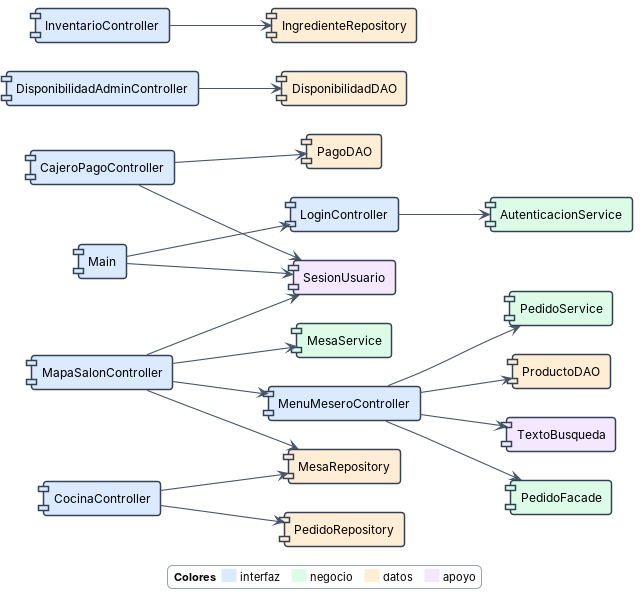
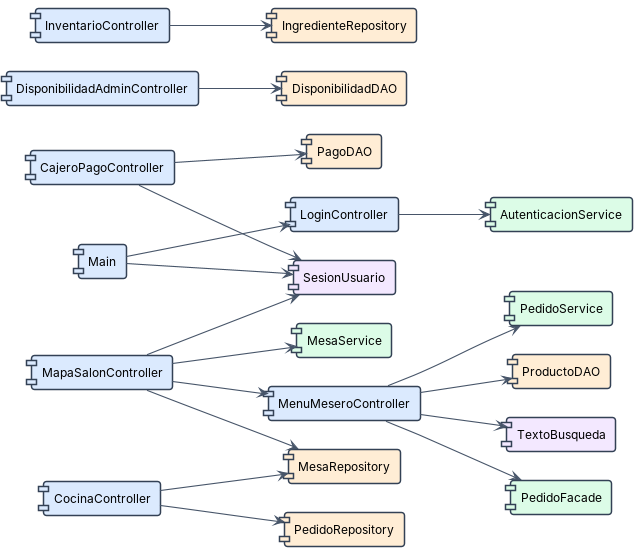
docs: la vista resumida es solo la imagen, sin titulo y sin leyenda
Dos cosas que sobraban:

- el titulo "Version resumida: ..." encima de cada una. Ahora debajo del
  diagrama largo va la imagen del resumen y nada mas.
- la leyenda de colores y simbolos que seguia al pie de las vistas de
  pantallas y de servicios. Se quita: lo que explicaba ya lo dice el
  diagrama largo que tiene encima.

Las cuatro vistas resumidas quedan sin una sola linea de texto dentro del
dibujo. Solo cuatro de los ocho diagramas de componentes tienen resumen;
los otros cuatro van solos, como estaban.

diff --git a/docs/diagramas-fuente/herramientas/gen_docs.py b/docs/diagramas-fuente/herramientas/gen_docs.py
@@ -188,9 +188,11 @@ CLASES = [
      'son los grupos de casos de JUnit.'),
 ]
 
+# De estas cuatro solo se usa la imagen: van pegadas debajo del
+# diagrama detallado del que son resumen, sin titulo y sin texto.
 COMPONENTES_SIMPLE = [
     ('puml_componentes/09_Simple_Capas.puml', 'DiagramaComponentes_S1_Capas',
-     'Versión resumida: las cinco capas',
+     'Las cinco capas',
      'La misma división en cinco grupos, sin interfaces ni nombres de clase, '
      'para quedarse solo con la dirección de las dependencias.',
      'Las cinco capas con el número de operaciones distintas que se invocan a '
@@ -199,7 +201,7 @@ COMPONENTES_SIMPLE = [
      'siguen ese orden son los saltos de capa: la interfaz llamando '
      'directamente a datos y el negocio llamando directamente a la conexión.'),
     ('puml_componentes/10_Simple_UI.puml', 'DiagramaComponentes_S2_UI',
-     'Versión resumida: qué usa cada pantalla',
+     'Qué usa cada pantalla',
      'Lo mismo sin los archivos ni las operaciones: una caja por pantalla y '
      'una flecha por dependencia.',
      'Las ocho pantallas con los componentes que llaman, coloreados por capa. '
@@ -208,7 +210,7 @@ COMPONENTES_SIMPLE = [
      'directamente a repositorios en lugar de pasar por un servicio.'),
     ('puml_componentes/11_Simple_Negocio.puml',
      'DiagramaComponentes_S3_Negocio',
-     'Versión resumida: qué repositorio usa cada servicio',
+     'Qué repositorio usa cada servicio',
      'La misma capa sin las operaciones de cada interfaz, para seguir de un '
      'vistazo el camino de un servicio hasta la base de datos.',
      'Arriba quedan los servicios que se apoyan unos en otros: PedidoFacade '
@@ -218,7 +220,7 @@ COMPONENTES_SIMPLE = [
      'clases que el pom.xml excluye de la compilación.'),
     ('puml_componentes/12_Simple_Apoyo.puml',
      'DiagramaComponentes_S4_Apoyo',
-     'Versión resumida: quién usa cada pieza compartida',
+     'Quién usa cada pieza compartida',
      'Las mismas tres piezas con los consumidores agrupados por capa en lugar '
      'de uno a uno, que a ese nivel son 31 flechas cruzando el dibujo.',
      'ConexionBD, SesionUsuario y TextoBusqueda, con el número de componentes '
@@ -522,8 +524,13 @@ def escribir():
         for i, item in enumerate(lista):
             ruta, nombre, tit, just, expl = item[:5]
             sub = len(item) > 5          # la version resumida del anterior
+            if sub:
+                # solo la imagen, pegada al diagrama del que es resumen: sin
+                # titulo y sin texto, que es justo lo que sobraba
+                L += [f'![{tit}](Imagenes/{nombre}.png)', '']
+                continue
             c = conteo(ruta)
-            L += [('###' if sub else '##') + f' {tit}', '',
+            L += [f'## {tit}', '',
                   f'![{tit}](Imagenes/{nombre}.png)', '',
                   '**Por qué está.** ' + just.format(**c), '',
                   '**Qué muestra.** ' + expl.format(**c), '']

diff --git a/docs/diagramas-fuente/herramientas/gen_componentes_simple.py b/docs/diagramas-fuente/herramientas/gen_componentes_simple.py
@@ -109,18 +109,9 @@ for d in destinos:
     L.append(caja(d).replace('#FFFFFF', COLOR[COMP[d]]))
 for (o, d) in sorted(par_ui):
     L.append(f'{al(o)} --> {al(d)}')
-# sin texto explicativo: solo la clave de colores, que es lo unico que el
-# dibujo no dice por si mismo
-sin_salida = sorted(n for n, c in COMP.items() if c == 'ui' and n not in uis)
-L += ['legend bottom',
-      '<b>Colores</b>  '
-      '<back:#DBEAFE>     </back> interfaz    '
-      '<back:#DCFCE7>     </back> negocio    '
-      '<back:#FFEDD5>     </back> datos    '
-      '<back:#F3E8FF>     </back> apoyo']
-if sin_salida:
-    L.append('<b>Sin dependencias</b>  ' + ', '.join(sin_salida))
-L.append('endlegend')
+# sin leyenda: el dibujo va solo. El color sigue agrupando las cajas por
+# capa, pero no se explica aqui: eso lo dice el diagrama detallado de
+# arriba, del que esta vista es el resumen
 escribe('10_Simple_UI.puml', L)
 
 # ============================================== S3. negocio hacia datos ===
@@ -150,15 +141,6 @@ for nom in orden_datos:
 for (o, d) in sorted(par_neg):
     muerta = o in EXCL          # si el origen no compila, la flecha no corre
     L.append(f'{al(o)} -[{"#B91C1C" if muerta else "#475569"}]-> {al(d)}')
-L += ['legend bottom',
-      '<b>Colores</b>  '
-      '<back:#DCFCE7>     </back> negocio    '
-      '<back:#FFEDD5>     </back> datos    '
-      '<back:#F1F5F9>     </back> conexion    '
-      '<back:#F3E8FF>     </back> apoyo',
-      '<b>Simbolos</b>  <&warning> excluida de la compilacion en pom.xml   '
-      '<back:#B91C1C>     </back> flecha roja: sale de una clase excluida',
-      'endlegend']
 escribe('11_Simple_Negocio.puml', L)
 
 # ============================================= S4. apoyo transversal ======

diff --git a/docs/diagramaComponentes.md b/docs/diagramaComponentes.md
@@ -12,15 +12,7 @@ Documentan en qué piezas sustituibles está dividido el sistema y cómo depende
 
 **Qué muestra.** El sistema se agrupa en interfaz, negocio, datos, conexión y apoyo. Las dependencias van en una sola dirección salvo las que atraviesan hacia datos desde la interfaz. Las interfaces provistas llevan el nombre real de la clase que las implementa: se dedujeron de las llamadas que cruzan el límite entre un grupo y otro, no de un diseño sobre el papel.
 
-### Versión resumida: las cinco capas
-
-![Versión resumida: las cinco capas](Imagenes/DiagramaComponentes_S1_Capas.png)
-
-**Por qué está.** La misma división en cinco grupos, sin interfaces ni nombres de clase, para quedarse solo con la dirección de las dependencias.
-
-**Qué muestra.** Las cinco capas con el número de operaciones distintas que se invocan a través de cada dependencia. El flujo normal baja de interfaz a negocio, de negocio a datos y de datos a la conexión. Las dos flechas que no siguen ese orden son los saltos de capa: la interfaz llamando directamente a datos y el negocio llamando directamente a la conexión.
-
----
+![Las cinco capas](Imagenes/DiagramaComponentes_S1_Capas.png)
 
 ## Qué necesita cada pantalla para funcionar
 
@@ -30,15 +22,7 @@ Documentan en qué piezas sustituibles está dividido el sistema y cómo depende
 
 **Qué muestra.** Son 20 componentes y 14 interfaces consumidas, con 17 conexiones. Cada componente agrupa su .fxml, su hoja de estilos y su controlador, de modo que se ve qué archivos hay que tocar para cambiar una pantalla. Las hojas de estilo las carga Main y no cada controlador, que es una dependencia fácil de pasar por alto.
 
-### Versión resumida: qué usa cada pantalla
-
-![Versión resumida: qué usa cada pantalla](Imagenes/DiagramaComponentes_S2_UI.png)
-
-**Por qué está.** Lo mismo sin los archivos ni las operaciones: una caja por pantalla y una flecha por dependencia.
-
-**Qué muestra.** Las ocho pantallas con los componentes que llaman, coloreados por capa. La mayoría depende de una o dos piezas, y el mapa de salón y la carta del mesero son las que más acumulan. También se ve qué pantallas llaman directamente a repositorios en lugar de pasar por un servicio.
-
----
+![Qué usa cada pantalla](Imagenes/DiagramaComponentes_S2_UI.png)
 
 ## Cómo se apoyan los servicios entre sí
 
@@ -48,15 +32,7 @@ Documentan en qué piezas sustituibles está dividido el sistema y cómo depende
 
 **Qué muestra.** Son 30 componentes y 23 interfaces, con 28 conexiones. Aparece SesionUsuario, que es el Singleton del proyecto y el único estado global del sistema: lo consultan varias pantallas para saber el rol del usuario. PagoService figura marcada como excluida de la compilación, así que la gestión de pagos está incompleta a este nivel.
 
-### Versión resumida: qué repositorio usa cada servicio
-
-![Versión resumida: qué repositorio usa cada servicio](Imagenes/DiagramaComponentes_S3_Negocio.png)
-
-**Por qué está.** La misma capa sin las operaciones de cada interfaz, para seguir de un vistazo el camino de un servicio hasta la base de datos.
-
-**Qué muestra.** Arriba quedan los servicios que se apoyan unos en otros: PedidoFacade coordina a PedidoService, MesaService e InventarioService, y esos tres comparten repositorios. Abajo, los servicios que usan un único repositorio propio y no dependen de nadie más. El aviso marca las clases que el pom.xml excluye de la compilación.
-
----
+![Qué repositorio usa cada servicio](Imagenes/DiagramaComponentes_S3_Negocio.png)
 
 ## Qué tabla toca cada componente de datos
 
@@ -96,15 +72,7 @@ Documentan en qué piezas sustituibles está dividido el sistema y cómo depende
 
 **Qué muestra.** ConexionBD abre todas las conexiones a PostgreSQL, SesionUsuario guarda quién ha iniciado sesión y TextoBusqueda normaliza las búsquedas. Entre las tres suman 31 consumidores. Cualquier cambio en su interfaz afecta a buena parte del sistema.
 
-### Versión resumida: quién usa cada pieza compartida
-
-![Versión resumida: quién usa cada pieza compartida](Imagenes/DiagramaComponentes_S4_Apoyo.png)
-
-**Por qué está.** Las mismas tres piezas con los consumidores agrupados por capa en lugar de uno a uno, que a ese nivel son 31 flechas cruzando el dibujo.
-
-**Qué muestra.** ConexionBD, SesionUsuario y TextoBusqueda, con el número de componentes de cada capa que las usan. ConexionBD es con diferencia la más usada, porque sin ORM cada repositorio abre su propia conexión.
-
----
+![Quién usa cada pieza compartida](Imagenes/DiagramaComponentes_S4_Apoyo.png)
 
 ## El código de la etapa con Spring que ya no compila
 
